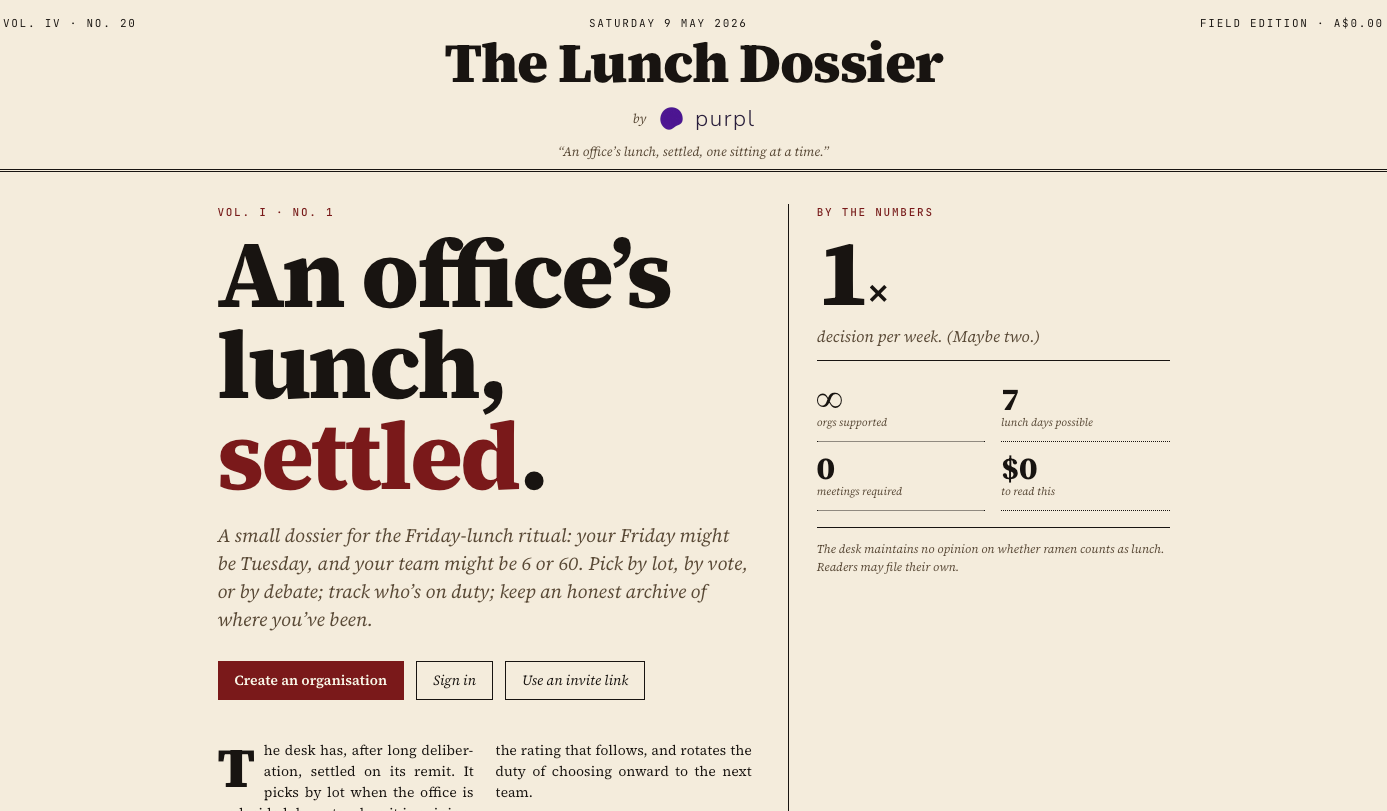
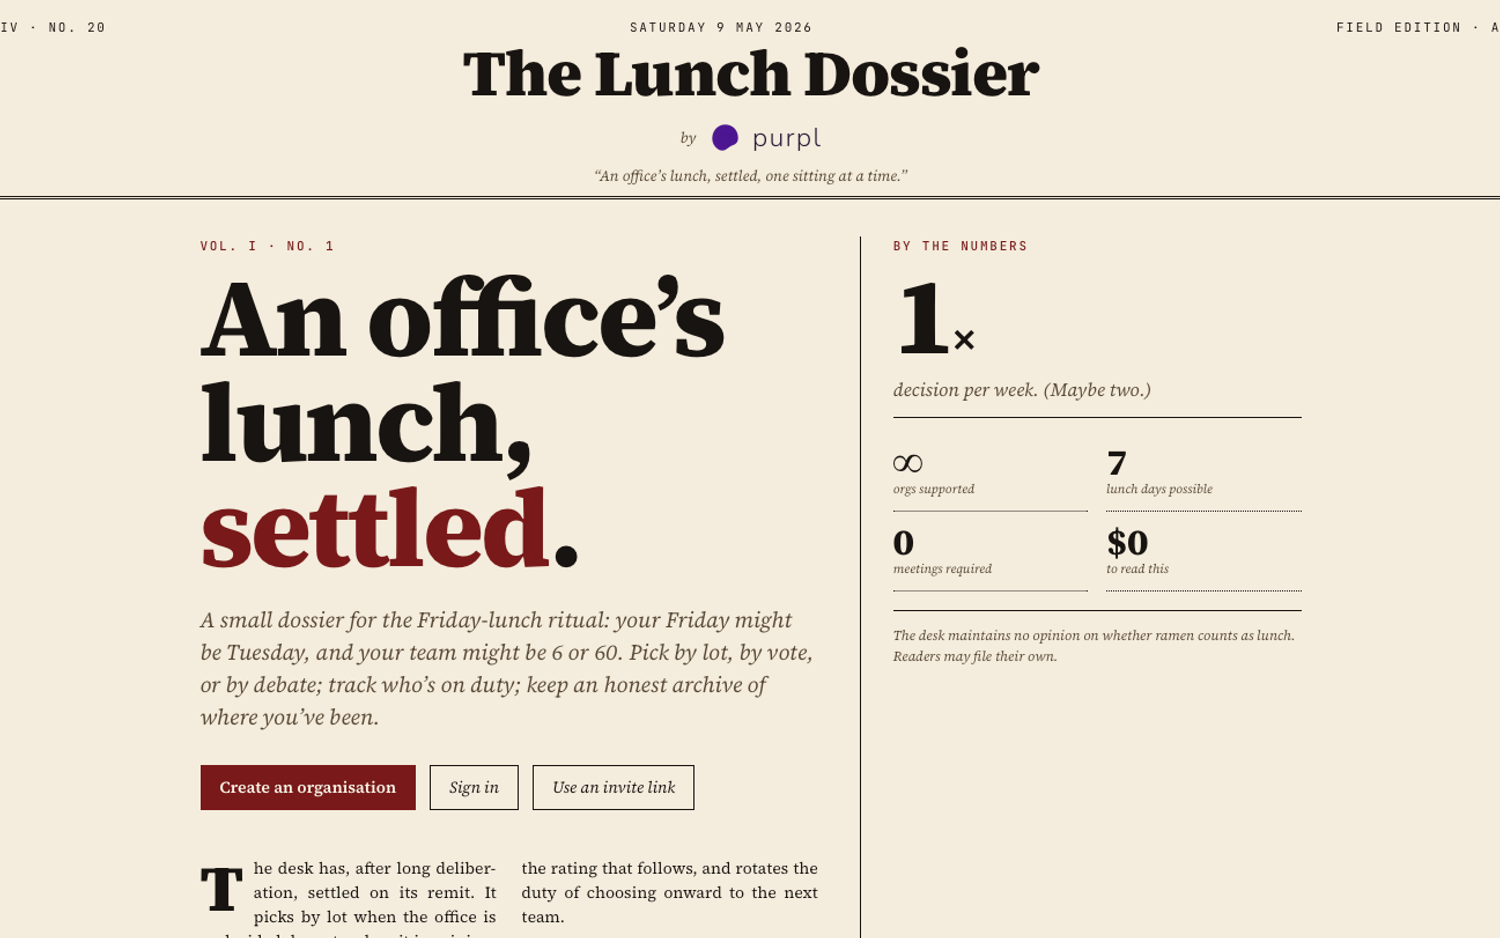
Normalise all Lunch Dossier screenshots to 1500x938
The four gallery images for the Lunch Dossier project were captured at
slightly different viewport widths (1387x811, 1506x941, 1473x921,
1488x930), so each rendered at a different scale inside the 16:10 modal
tile and the masthead title appeared to "zoom in and out" across the
thumbnails.

Resizing them all to a shared 1500x938 (exact 16:10) means the tile no
longer scales them differently, and the title sits at the same physical
size in every thumbnail and big preview.

projects.tsx and LunchDossierPreview.tsx updated to the new dimensions.

diff --git a/components/work/projects.tsx b/components/work/projects.tsx
@@ -244,8 +244,8 @@ export const projects: Project[] = [
           <ImagePreview
             src="/projects/lunch-dossier/main.png"
             alt="lunch dossier front page with masthead, cycle stats, and within-the-radius list"
-            width={1506}
-            height={941}
+            width={1500}
+            height={938}
             background="#F0E9D8"
           />
         ),
@@ -257,8 +257,8 @@ export const projects: Project[] = [
           <ImagePreview
             src="/projects/lunch-dossier/standing-orders.png"
             alt="lunch dossier standing orders page with masthead, lunch days, rotation cadence, and members & invitations"
-            width={1473}
-            height={921}
+            width={1500}
+            height={938}
             background="#F0E9D8"
           />
         ),
@@ -270,8 +270,8 @@ export const projects: Project[] = [
           <ImagePreview
             src="/projects/lunch-dossier/the-selection.png"
             alt="lunch dossier the selection page with roulette draw, cuisine filters, and ranked candidate list"
-            width={1488}
-            height={930}
+            width={1500}
+            height={938}
             background="#F0E9D8"
           />
         ),

diff --git a/components/work/previews/LunchDossierPreview.tsx b/components/work/previews/LunchDossierPreview.tsx
@@ -8,8 +8,8 @@ export function LunchDossierPreview() {
       <Image
         src="/projects/lunch-dossier.png"
         alt="The Lunch Dossier app screenshot"
-        width={1387}
-        height={811}
+        width={1500}
+        height={938}
         sizes="(min-width: 1024px) 50vw, 100vw"
         className="absolute inset-0 h-full w-full object-cover object-top"
       />
